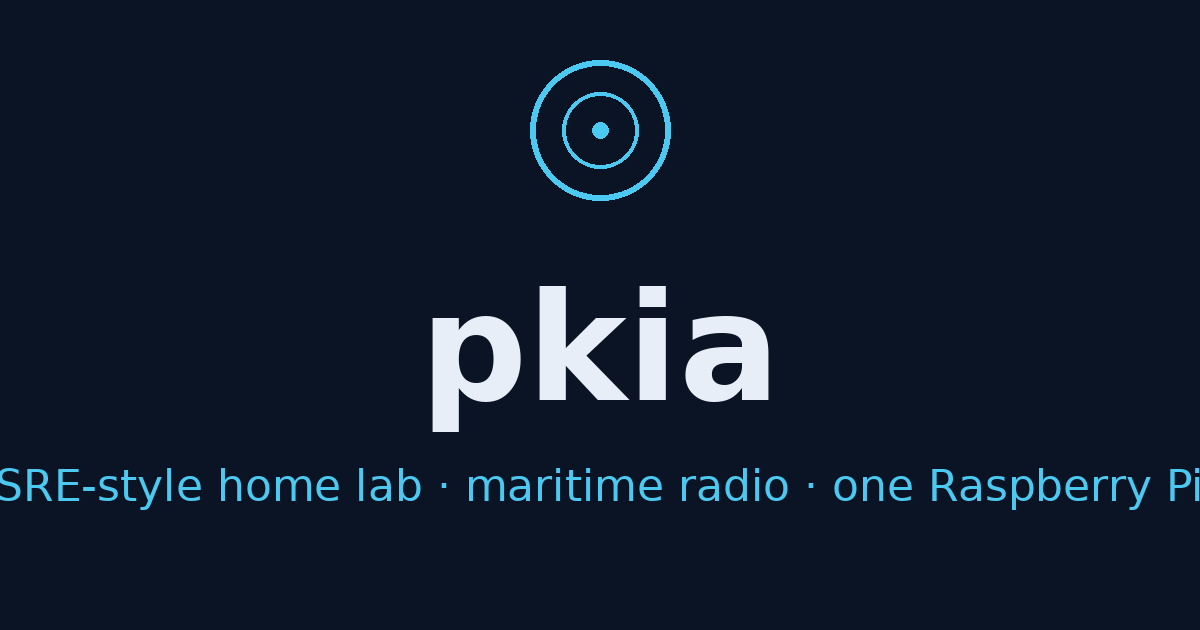
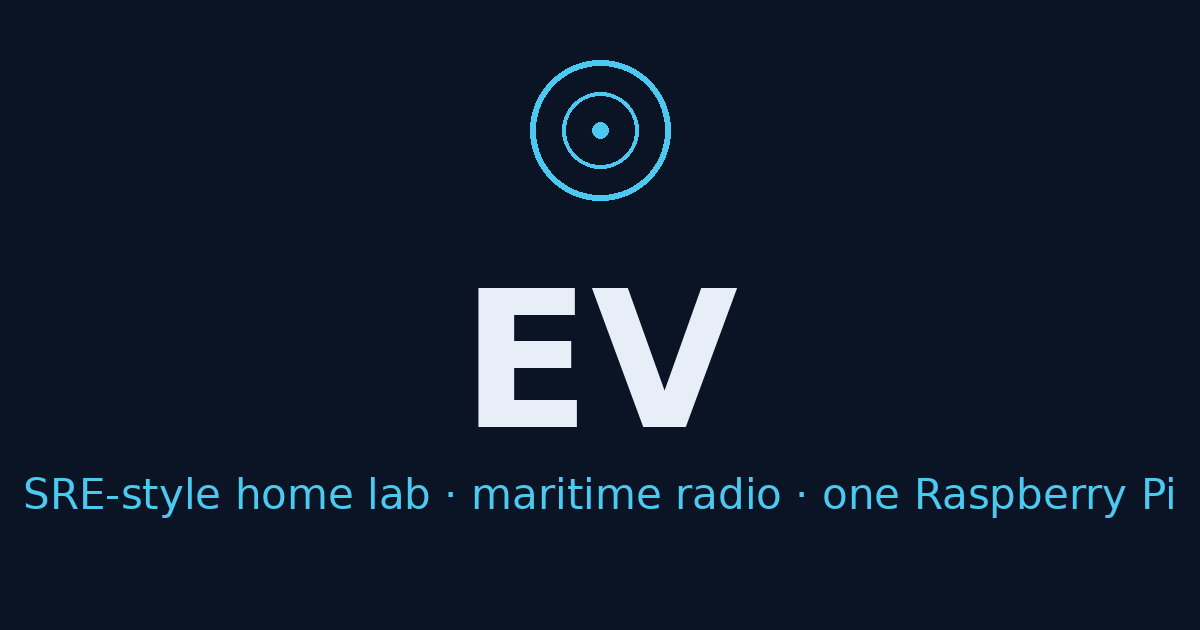
scrub: byline EV, regenerate og image without personal name

Changed region(s): [[0.3392, 0.4524, 0.6475, 0.6937], [0.0, 0.7238, 1.0, 0.8143]]

diff --git a/index.html b/index.html
@@ -3,24 +3,24 @@
 <head>
   <meta charset="utf-8" />
   <meta name="viewport" content="width=device-width, initial-scale=1" />
-  <title>pkia — Technical Support Engineer</title>
-  <meta name="description" content="pkia is a Technical Support Engineer at an enterprise data-storage company in Ireland — solving deep enterprise troubleshooting cases by day, vibe coding with AI, and running self-hosted maritime infrastructure on a Raspberry Pi by night." />
+  <title>EV — Technical Support Engineer</title>
+  <meta name="description" content="EV is a Technical Support Engineer at an enterprise data-storage company in Ireland — solving deep enterprise troubleshooting cases by day, vibe coding with AI, and running self-hosted maritime infrastructure on a Raspberry Pi by night." />
   <link rel="canonical" href="https://pkia.github.io/" />
   <meta name="theme-color" content="#070d18" />
   <meta name="color-scheme" content="dark" />
-  <meta property="og:site_name" content="pkia" />
-  <meta property="og:title" content="pkia — Technical Support Engineer" />
+  <meta property="og:site_name" content="EV" />
+  <meta property="og:title" content="EV — Technical Support Engineer" />
   <meta property="og:description" content="Deep technical support by day, ship radar and AI-assisted building at home. Technical Support Engineer @ an enterprise data-storage company, Ireland." />
   <meta property="og:type" content="website" />
   <meta property="og:url" content="https://pkia.github.io/" />
   <meta property="og:image" content="https://pkia.github.io/og.png" />
   <meta property="og:image:width" content="1200" />
   <meta property="og:image:height" content="630" />
-  <meta property="og:image:alt" content="pkia — Technical Support Engineer, ship-radar motif on dark navy" />
+  <meta property="og:image:alt" content="EV — Technical Support Engineer, ship-radar motif on dark navy" />
   <meta name="twitter:card" content="summary_large_image" />
   <link rel="icon" type="image/svg+xml" href="favicon.svg" />
   <link rel="apple-touch-icon" href="/apple-touch-icon.png" />
-  <link rel="alternate" type="application/rss+xml" title="pkia — Devlog" href="/feed.xml" />
+  <link rel="alternate" type="application/rss+xml" title="EV — Devlog" href="/feed.xml" />
   <link rel="preconnect" href="https://fonts.googleapis.com" />
   <link rel="preconnect" href="https://fonts.gstatic.com" crossorigin />
   <link href="https://fonts.googleapis.com/css2?family=Inter:wght@400;500;600&family=Space+Grotesk:wght@400;500;600;700&family=JetBrains+Mono:wght@400;500&display=swap" rel="stylesheet" />
@@ -29,7 +29,7 @@
   {
     "@context": "https://schema.org",
     "@type": "Person",
-    "name": "pkia",
+    "name": "EV",
     "jobTitle": "Technical Support Engineer",
     "worksFor": { "@type": "Organization", "name": "an enterprise data-storage company" },
     "url": "https://pkia.github.io/",
@@ -109,8 +109,8 @@
         <div class="hero-copy">
           <p class="hero-role reveal"><span class="dot" aria-hidden="true"></span> Technical Support Engineer · an enterprise data-storage company</p>
           <h1 class="hero-name reveal">
-            <span class="line">pkia</span>
-            <span class="line">pkia<span class="accent">.</span></span>
+            <span class="line">EV</span>
+            <span class="line">EV<span class="accent">.</span></span>
           </h1>
           <p class="hero-tagline reveal">
             Pragmatic, delivery-oriented engineer with a weakness for
@@ -830,7 +830,7 @@
 
   <footer class="footer">
     <div class="container footer-inner">
-      <p>© <span id="year">2026</span> pkia · Ireland</p>
+      <p>© <span id="year">2026</span> EV · Ireland</p>
       <p class="footer-note">Decoded with RTL-SDR, deployed with auto-rollback.</p>
       <div class="footer-social">
         <a href="https://github.com/pkia" target="_blank" rel="noopener" aria-label="GitHub">

diff --git a/blog/posts/2026-08-23.html b/blog/posts/2026-08-23.html
@@ -3,12 +3,12 @@
 <head>
   <meta charset="utf-8" />
   <meta name="viewport" content="width=device-width, initial-scale=1" />
-  <title>ShelfMate goes public, AIS goes on the shelf — pkia</title>
+  <title>ShelfMate goes public, AIS goes on the shelf — EV</title>
   <meta name="description" content="ShelfMate is open-sourced with tests and a deploy pipeline, its private instance is hardened behind the same pull-based CD as everything else, the AIS decoder's round trip finally works — and the whole agent loop moves to an overnight schedule. Plus the August coding-agent leaderboard, the RAM shortage eating the Pi ecosystem, and a borgmatic guide worth an hour." />
   <link rel="canonical" href="https://pkia.github.io/blog/posts/2026-08-23.html" />
   <meta name="theme-color" content="#070d18" />
   <meta name="color-scheme" content="dark" />
-  <meta property="og:site_name" content="pkia" />
+  <meta property="og:site_name" content="EV" />
   <meta property="og:title" content="ShelfMate goes public, AIS goes on the shelf" />
   <meta property="og:description" content="Open-sourcing ShelfMate, pausing the AIS decoder on a working round trip, and rescheduling the agent loop to run while the city sleeps." />
   <meta property="og:type" content="article" />
@@ -20,7 +20,7 @@
   <meta name="twitter:card" content="summary_large_image" />
   <link rel="icon" type="image/svg+xml" href="/favicon.svg" />
   <link rel="apple-touch-icon" href="/apple-touch-icon.png" />
-  <link rel="alternate" type="application/rss+xml" title="pkia — Devlog" href="/feed.xml" />
+  <link rel="alternate" type="application/rss+xml" title="EV — Devlog" href="/feed.xml" />
   <link rel="preconnect" href="https://fonts.googleapis.com" />
   <link rel="preconnect" href="https://fonts.gstatic.com" crossorigin />
   <link href="https://fonts.googleapis.com/css2?family=Inter:wght@400;500;600&family=Space+Grotesk:wght@400;500;600;700&family=JetBrains+Mono:wght@400;500&display=swap" rel="stylesheet" />
@@ -195,7 +195,7 @@
 
   <footer class="footer">
     <div class="container footer-inner">
-      <p>© <span id="year">2026</span> pkia · Ireland</p>
+      <p>© <span id="year">2026</span> EV · Ireland</p>
       <p class="footer-note">Decoded with RTL-SDR, deployed with auto-rollback.</p>
       <div class="footer-social">
         <a href="https://github.com/pkia" target="_blank" rel="noopener" aria-label="GitHub">

diff --git a/blog/posts/2026-08-24.html b/blog/posts/2026-08-24.html
@@ -3,12 +3,12 @@
 <head>
   <meta charset="utf-8" />
   <meta name="viewport" content="width=device-width, initial-scale=1" />
-  <title>The agent loop ships its first feature — pkia</title>
+  <title>The agent loop ships its first feature — EV</title>
   <meta name="description" content="The 04:00 radar implementer shipped its first feature: loop-heartbeat, a dead-man's switch that watches the agent loop itself — and its first sweep caught a real outage from Friday. Also: the CS2 dashboard survives a two-day Liquipedia block, the X bot gets a research-driven growth playbook, and monitoring ideas queue up on the radar board." />
   <link rel="canonical" href="https://pkia.github.io/blog/posts/2026-08-24.html" />
   <meta name="theme-color" content="#070d18" />
   <meta name="color-scheme" content="dark" />
-  <meta property="og:site_name" content="pkia" />
+  <meta property="og:site_name" content="EV" />
   <meta property="og:title" content="The agent loop ships its first feature" />
   <meta property="og:description" content="An agent built the dead-man's switch that watches the agents — first implementer ship off the radar board, plus CS2 vs Liquipedia and a growth playbook for the X bot." />
   <meta property="og:type" content="article" />
@@ -20,7 +20,7 @@
   <meta name="twitter:card" content="summary_large_image" />
   <link rel="icon" type="image/svg+xml" href="/favicon.svg" />
   <link rel="apple-touch-icon" href="/apple-touch-icon.png" />
-  <link rel="alternate" type="application/rss+xml" title="pkia — Devlog" href="/feed.xml" />
+  <link rel="alternate" type="application/rss+xml" title="EV — Devlog" href="/feed.xml" />
   <link rel="preconnect" href="https://fonts.googleapis.com" />
   <link rel="preconnect" href="https://fonts.gstatic.com" crossorigin />
   <link href="https://fonts.googleapis.com/css2?family=Inter:wght@400;500;600&family=Space+Grotesk:wght@400;500;600;700&family=JetBrains+Mono:wght@400;500&display=swap" rel="stylesheet" />
@@ -202,7 +202,7 @@
 
   <footer class="footer">
     <div class="container footer-inner">
-      <p>© <span id="year">2026</span> pkia · Ireland</p>
+      <p>© <span id="year">2026</span> EV · Ireland</p>
       <p class="footer-note">Decoded with RTL-SDR, deployed with auto-rollback.</p>
       <div class="footer-social">
         <a href="https://github.com/pkia" target="_blank" rel="noopener" aria-label="GitHub">

diff --git a/blog/posts/2026-08-22-shelfmate.html b/blog/posts/2026-08-22-shelfmate.html
@@ -3,12 +3,12 @@
 <head>
   <meta charset="utf-8" />
   <meta name="viewport" content="width=device-width, initial-scale=1" />
-  <title>Book recommendations without the Goodreads API — pkia</title>
+  <title>Book recommendations without the Goodreads API — EV</title>
   <meta name="description" content="How ShelfMate turns a bare Goodreads profile link into book recommendations: the public RSS shelf feed Goodreads forgot to wall off, rating-weighted subject profiles from Open Library, and the honest 45-second loading screen. No accounts, no tracking, one Python file on a Pi." />
   <link rel="canonical" href="https://pkia.github.io/blog/posts/2026-08-22-shelfmate.html" />
   <meta name="theme-color" content="#070d18" />
   <meta name="color-scheme" content="dark" />
-  <meta property="og:site_name" content="pkia" />
+  <meta property="og:site_name" content="EV" />
   <meta property="og:title" content="Book recommendations without the Goodreads API" />
   <meta property="og:description" content="Project deep-dive — the public RSS feed Goodreads forgot to wall off, Open Library subjects, and a recommender with an honest loading screen." />
   <meta property="og:type" content="article" />
@@ -20,7 +20,7 @@
   <meta name="twitter:card" content="summary_large_image" />
   <link rel="icon" type="image/svg+xml" href="/favicon.svg" />
   <link rel="apple-touch-icon" href="/apple-touch-icon.png" />
-  <link rel="alternate" type="application/rss+xml" title="pkia — Devlog" href="/feed.xml" />
+  <link rel="alternate" type="application/rss+xml" title="EV — Devlog" href="/feed.xml" />
   <link rel="preconnect" href="https://fonts.googleapis.com" />
   <link rel="preconnect" href="https://fonts.gstatic.com" crossorigin />
   <link href="https://fonts.googleapis.com/css2?family=Inter:wght@400;500;600&family=Space+Grotesk:wght@400;500;600;700&family=JetBrains+Mono:wght@400;500&display=swap" rel="stylesheet" />
@@ -215,7 +215,7 @@
 
   <footer class="footer">
     <div class="container footer-inner">
-      <p>© <span id="year">2026</span> pkia · Ireland</p>
+      <p>© <span id="year">2026</span> EV · Ireland</p>
       <p class="footer-note">Decoded with RTL-SDR, deployed with auto-rollback.</p>
       <div class="footer-social">
         <a href="https://github.com/pkia" target="_blank" rel="noopener" aria-label="GitHub">

diff --git a/blog/posts/2026-08-21-cs2-dashboard.html b/blog/posts/2026-08-21-cs2-dashboard.html
@@ -3,12 +3,12 @@
 <head>
   <meta charset="utf-8" />
   <meta name="viewport" content="width=device-width, initial-scale=1" />
-  <title>Three data sources, one live score: building a CS2 kiosk — pkia</title>
+  <title>Three data sources, one live score: building a CS2 kiosk — EV</title>
   <meta name="description" content="How the esports dashboard on my Raspberry Pi kiosk stitches together Liquipedia, bo3.gg and HLTV's scorebot to show live round scores, map vetoes and an embedded stream — and the bugs fought along the way." />
   <link rel="canonical" href="https://pkia.github.io/blog/posts/2026-08-21-cs2-dashboard.html" />
   <meta name="theme-color" content="#070d18" />
   <meta name="color-scheme" content="dark" />
-  <meta property="og:site_name" content="pkia" />
+  <meta property="og:site_name" content="EV" />
   <meta property="og:title" content="Three data sources, one live score: building a CS2 kiosk" />
   <meta property="og:description" content="Project deep-dive — Liquipedia, bo3.gg and HLTV's scorebot, one kiosk screen." />
   <meta property="og:type" content="article" />
@@ -20,7 +20,7 @@
   <meta name="twitter:card" content="summary_large_image" />
   <link rel="icon" type="image/svg+xml" href="/favicon.svg" />
   <link rel="apple-touch-icon" href="/apple-touch-icon.png" />
-  <link rel="alternate" type="application/rss+xml" title="pkia — Devlog" href="/feed.xml" />
+  <link rel="alternate" type="application/rss+xml" title="EV — Devlog" href="/feed.xml" />
   <link rel="preconnect" href="https://fonts.googleapis.com" />
   <link rel="preconnect" href="https://fonts.gstatic.com" crossorigin />
   <link href="https://fonts.googleapis.com/css2?family=Inter:wght@400;500;600&family=Space+Grotesk:wght@400;500;600;700&family=JetBrains+Mono:wght@400;500&display=swap" rel="stylesheet" />
@@ -195,7 +195,7 @@
 
   <footer class="footer">
     <div class="container footer-inner">
-      <p>© <span id="year">2026</span> pkia · Ireland</p>
+      <p>© <span id="year">2026</span> EV · Ireland</p>
       <p class="footer-note">Decoded with RTL-SDR, deployed with auto-rollback.</p>
       <div class="footer-social">
         <a href="https://github.com/pkia" target="_blank" rel="noopener" aria-label="GitHub">

diff --git a/blog/posts/2026-08-21.html b/blog/posts/2026-08-21.html
@@ -3,12 +3,12 @@
 <head>
   <meta charset="utf-8" />
   <meta name="viewport" content="width=device-width, initial-scale=1" />
-  <title>Ship it: portfolio launch, hardened deploys, and a new architecture repo — Devlog — pkia</title>
+  <title>Ship it: portfolio launch, hardened deploys, and a new architecture repo — Devlog — EV</title>
   <meta name="description" content="Launch day: this site goes live, maritime-dashboard and project-hub ship with hardened CI/CD, pi-cicd becomes the architecture repo. Plus: CM5 programming jig news and AI-agent adoption numbers." />
   <link rel="canonical" href="https://pkia.github.io/blog/posts/2026-08-21.html" />
   <meta name="theme-color" content="#070d18" />
   <meta name="color-scheme" content="dark" />
-  <meta property="og:site_name" content="pkia" />
+  <meta property="og:site_name" content="EV" />
   <meta property="og:title" content="Ship it: portfolio launch, hardened deploys, and a new architecture repo" />
   <meta property="og:description" content="Devlog, 21 Aug 2026 — launch day." />
   <meta property="og:type" content="article" />
@@ -20,7 +20,7 @@
   <meta name="twitter:card" content="summary_large_image" />
   <link rel="icon" type="image/svg+xml" href="/favicon.svg" />
   <link rel="apple-touch-icon" href="/apple-touch-icon.png" />
-  <link rel="alternate" type="application/rss+xml" title="pkia — Devlog" href="/feed.xml" />
+  <link rel="alternate" type="application/rss+xml" title="EV — Devlog" href="/feed.xml" />
   <link rel="preconnect" href="https://fonts.googleapis.com" />
   <link rel="preconnect" href="https://fonts.gstatic.com" crossorigin />
   <link href="https://fonts.googleapis.com/css2?family=Inter:wght@400;500;600&family=Space+Grotesk:wght@400;500;600;700&family=JetBrains+Mono:wght@400;500&display=swap" rel="stylesheet" />
@@ -152,7 +152,7 @@
 
   <footer class="footer">
     <div class="container footer-inner">
-      <p>© <span id="year">2026</span> pkia · Ireland</p>
+      <p>© <span id="year">2026</span> EV · Ireland</p>
       <p class="footer-note">Decoded with RTL-SDR, deployed with auto-rollback.</p>
       <div class="footer-social">
         <a href="https://github.com/pkia" target="_blank" rel="noopener" aria-label="GitHub">

diff --git a/blog/posts/2026-08-22.html b/blog/posts/2026-08-22.html
@@ -3,12 +3,12 @@
 <head>
   <meta charset="utf-8" />
   <meta name="viewport" content="width=device-width, initial-scale=1" />
-  <title>Evening after launch: diagrams, boot splashes and protocol v2 — Devlog — pkia</title>
+  <title>Evening after launch: diagrams, boot splashes and protocol v2 — Devlog — EV</title>
   <meta name="description" content="Devlog, 22 Aug 2026 — the evening after launch: an interactive architecture diagram of the Pi, a boot splash, radar protocol v2 with a run log, a METEOR demod fix, and a quieter night of guard housekeeping." />
   <link rel="canonical" href="https://pkia.github.io/blog/posts/2026-08-22.html" />
   <meta name="theme-color" content="#070d18" />
   <meta name="color-scheme" content="dark" />
-  <meta property="og:site_name" content="pkia" />
+  <meta property="og:site_name" content="EV" />
   <meta property="og:title" content="Evening after launch: diagrams, boot splashes and protocol v2" />
   <meta property="og:description" content="Devlog, 22 Aug 2026 — the evening after launch." />
   <meta property="og:type" content="article" />
@@ -20,7 +20,7 @@
   <meta name="twitter:card" content="summary_large_image" />
   <link rel="icon" type="image/svg+xml" href="/favicon.svg" />
   <link rel="apple-touch-icon" href="/apple-touch-icon.png" />
-  <link rel="alternate" type="application/rss+xml" title="pkia — Devlog" href="/feed.xml" />
+  <link rel="alternate" type="application/rss+xml" title="EV — Devlog" href="/feed.xml" />
   <link rel="preconnect" href="https://fonts.googleapis.com" />
   <link rel="preconnect" href="https://fonts.gstatic.com" crossorigin />
   <link href="https://fonts.googleapis.com/css2?family=Inter:wght@400;500;600&family=Space+Grotesk:wght@400;500;600;700&family=JetBrains+Mono:wght@400;500&display=swap" rel="stylesheet" />
@@ -173,7 +173,7 @@
 
   <footer class="footer">
     <div class="container footer-inner">
-      <p>© <span id="year">2026</span> pkia · Ireland</p>
+      <p>© <span id="year">2026</span> EV · Ireland</p>
       <p class="footer-note">Decoded with RTL-SDR, deployed with auto-rollback.</p>
       <div class="footer-social">
         <a href="https://github.com/pkia" target="_blank" rel="noopener" aria-label="GitHub">

diff --git a/blog/index.html b/blog/index.html
@@ -3,13 +3,13 @@
 <head>
   <meta charset="utf-8" />
   <meta name="viewport" content="width=device-width, initial-scale=1" />
-  <title>Devlog — pkia</title>
+  <title>Devlog — EV</title>
   <meta name="description" content="Daily devlog: what I shipped, what's on the radar, and interesting reads — written and published automatically from my Raspberry Pi overnight." />
   <link rel="canonical" href="https://pkia.github.io/blog/" />
   <meta name="theme-color" content="#070d18" />
   <meta name="color-scheme" content="dark" />
-  <meta property="og:site_name" content="pkia" />
-  <meta property="og:title" content="Devlog — pkia" />
+  <meta property="og:site_name" content="EV" />
+  <meta property="og:title" content="Devlog — EV" />
   <meta property="og:description" content="Daily notes on shipping, home-lab ops and building with AI." />
   <meta property="og:type" content="website" />
   <meta property="og:url" content="https://pkia.github.io/blog/" />
@@ -19,7 +19,7 @@
   <meta name="twitter:card" content="summary_large_image" />
   <link rel="icon" type="image/svg+xml" href="/favicon.svg" />
   <link rel="apple-touch-icon" href="/apple-touch-icon.png" />
-  <link rel="alternate" type="application/rss+xml" title="pkia — Devlog" href="/feed.xml" />
+  <link rel="alternate" type="application/rss+xml" title="EV — Devlog" href="/feed.xml" />
   <link rel="preconnect" href="https://fonts.googleapis.com" />
   <link rel="preconnect" href="https://fonts.gstatic.com" crossorigin />
   <link href="https://fonts.googleapis.com/css2?family=Inter:wght@400;500;600&family=Space+Grotesk:wght@400;500;600;700&family=JetBrains+Mono:wght@400;500&display=swap" rel="stylesheet" />
@@ -169,7 +169,7 @@
 
   <footer class="footer">
     <div class="container footer-inner">
-      <p>© <span id="year">2026</span> pkia · Ireland</p>
+      <p>© <span id="year">2026</span> EV · Ireland</p>
       <p class="footer-note">Decoded with RTL-SDR, deployed with auto-rollback.</p>
       <div class="footer-social">
         <a href="https://github.com/pkia" target="_blank" rel="noopener" aria-label="GitHub">

diff --git a/404.html b/404.html
@@ -3,7 +3,7 @@
 <head>
   <meta charset="utf-8" />
   <meta name="viewport" content="width=device-width, initial-scale=1" />
-  <title>404 — Signal lost — pkia</title>
+  <title>404 — Signal lost — EV</title>
   <meta name="description" content="Page not found." />
   <meta name="robots" content="noindex" />
   <meta name="theme-color" content="#070d18" />
@@ -65,7 +65,7 @@
 
   <footer class="footer">
     <div class="container footer-inner">
-      <p>© <span id="year">2026</span> pkia · Ireland</p>
+      <p>© <span id="year">2026</span> EV · Ireland</p>
       <p class="footer-note">Decoded with RTL-SDR, deployed with auto-rollback.</p>
       <div class="footer-social">
         <a href="https://github.com/pkia" target="_blank" rel="noopener" aria-label="GitHub">

diff --git a/script.js b/script.js
@@ -1,4 +1,4 @@
-/* pkia — personal site interactions */
+/* EV — personal site interactions */
 
 (function () {
   "use strict";

diff --git a/README.md b/README.md
@@ -1,4 +1,4 @@
-# pkia.dev — personal portfolio
+# EV — personal portfolio
 
 Source for my personal website, served via GitHub Pages at
 **<https://pkia.github.io>**.
